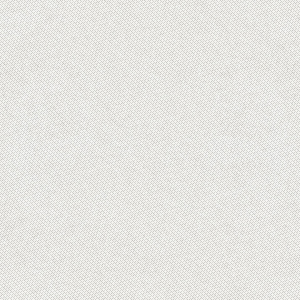
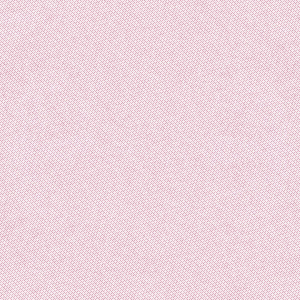
[Evo] bootstrap wedding site

Changed region(s): [[0.0, 0.0, 1.0, 1.0]]

diff --git a/app/views/wedding.scala.html b/app/views/wedding.scala.html
@@ -1,0 +1,39 @@
+@()
+
+@main(Messages("story")) {
+
+<div class="page-block center-page">
+  <div class="page-header">
+  </div>
+  <h3>@Messages("wedding.event")</h3>
+  <div class="row">
+    <div class="span3">
+      <img src="@routes.Assets.at("images/church.jpg")" />
+    </div>
+    <div class="span8">
+      Lorem ipsum dolor sit amet, consectetur adipiscing elit. Morbi hendrerit, elit at interdum accumsan, lectus nibh aliquam sem, sed adipiscing nisl eros non augue. Phasellus consequat mi eu nisl fringilla convallis. In vel diam non libero tincidunt hendrerit. Duis id augue urna. Proin quis faucibus nisi. Pellentesque volutpat lacinia elementum. Donec tempus auctor varius. Proin sapien urna, mollis vel viverra a, imperdiet eu odio. Donec suscipit condimentum pulvinar. Suspendisse sed pellentesque metus. Sed augue sem, tincidunt a laoreet vel, ultrices id urna. Sed ultrices, nibh nec varius fermentum, tellus tellus pharetra nisi, a sollicitudin justo metus non sem.
+    </div>
+  </div>
+  <br />
+  <div class="row">
+    <div class="span8">
+      Nullam luctus odio at neque congue non dapibus lorem vestibulum. Duis eget lorem eu mauris commodo aliquet ac consequat mauris. Nulla commodo pharetra cursus. Integer sem nisl, ultricies vitae congue vel, eleifend ac orci. Duis id erat felis, vitae mattis urna. Class aptent taciti sociosqu ad litora torquent per conubia nostra, per inceptos himenaeos. Fusce molestie lacus et leo porta fermentum. Class aptent taciti sociosqu ad litora torquent per conubia nostra, per inceptos himenaeos.
+    </div>
+    <div class="span3">
+      <img src="@routes.Assets.at("images/champagne.jpg")" />
+    </div>
+  </div>
+  <br />
+  <div class="row">
+    <div class="span3">
+      <img src="@routes.Assets.at("images/cake1.jpg")" />
+    </div>
+    <div class="span8">
+      Vestibulum ante ipsum primis in faucibus orci luctus et ultrices posuere cubilia Curae; Morbi ut felis sapien. Integer nec pretium augue. Sed non lorem nunc. Morbi volutpat tincidunt nisi a fermentum. Suspendisse potenti. Nulla in tellus et elit tempus suscipit. Phasellus enim massa, sodales at cursus et, accumsan vitae nunc. Nam rutrum lacus risus. Donec cursus, est eu congue scelerisque, nisl odio ultricies tellus, accumsan fermentum purus massa vitae mi. Nunc id ullamcorper ipsum. Praesent eu sodales dui.
+      <br />
+      Proin commodo tempor lacinia. Nam varius eros sit amet quam posuere faucibus. Praesent et massa non lorem facilisis viverra. Fusce erat lectus, imperdiet quis pretium nec, eleifend quis tortor. Morbi nunc arcu, pulvinar et sollicitudin vel, dictum nec quam. Vivamus in sem in quam mattis rhoncus. Duis posuere, quam id ultrices luctus, massa erat tincidunt purus, vitae congue neque eros in nunc. Maecenas vel dolor sapien. Vivamus tempus interdum enim sed volutpat. Fusce mattis, neque ut dapibus fringilla, purus tellus volutpat diam, ac semper enim massa ac dolor. Duis tempus bibendum luctus. Duis dapibus leo ut urna consequat consequat. Maecenas sed ligula et nunc pulvinar porttitor vitae in enim. Donec vulputate varius urna, sed interdum purus sodales a.
+    </div>
+  </div>
+</div>
+
+}

diff --git a/app/views/story.scala.html b/app/views/story.scala.html
@@ -1,0 +1,37 @@
+@()
+
+@main(Messages("story")) {
+
+<div class="page-block center-page">
+  <div class="page-header">
+  </div>
+  <h3>@Messages("story")</h3>
+  <div class="row">
+    <div class="span3">
+      <img src="@routes.Assets.at("images/coeur.jpg")" />
+    </div>
+    <div class="span8">
+      Lorem ipsum dolor sit amet, consectetur adipiscing elit. Morbi hendrerit, elit at interdum accumsan, lectus nibh aliquam sem, sed adipiscing nisl eros non augue. Phasellus consequat mi eu nisl fringilla convallis. In vel diam non libero tincidunt hendrerit. Duis id augue urna. Proin quis faucibus nisi. Pellentesque volutpat lacinia elementum. Donec tempus auctor varius. Proin sapien urna, mollis vel viverra a, imperdiet eu odio. Donec suscipit condimentum pulvinar. Suspendisse sed pellentesque metus. Sed augue sem, tincidunt a laoreet vel, ultrices id urna. Sed ultrices, nibh nec varius fermentum, tellus tellus pharetra nisi, a sollicitudin justo metus non sem.
+    </div>
+  </div>
+  <br />
+  <div class="row">
+    <div class="span8">
+      Nullam luctus odio at neque congue non dapibus lorem vestibulum. Duis eget lorem eu mauris commodo aliquet ac consequat mauris. Nulla commodo pharetra cursus. Integer sem nisl, ultricies vitae congue vel, eleifend ac orci. Duis id erat felis, vitae mattis urna. Class aptent taciti sociosqu ad litora torquent per conubia nostra, per inceptos himenaeos. Fusce molestie lacus et leo porta fermentum. Class aptent taciti sociosqu ad litora torquent per conubia nostra, per inceptos himenaeos.
+    </div>
+    <div class="span3">
+      <img src="@routes.Assets.at("images/ring.jpg")" />
+    </div>
+  </div>
+  <br />
+  <div class="row">
+    <div class="span3">
+      <img src="@routes.Assets.at("images/forced.jpg")" />
+    </div>
+    <div class="span8">
+      Vestibulum ante ipsum primis in faucibus orci luctus et ultrices posuere cubilia Curae; Morbi ut felis sapien. Integer nec pretium augue. Sed non lorem nunc. Morbi volutpat tincidunt nisi a fermentum. Suspendisse potenti. Nulla in tellus et elit tempus suscipit. Phasellus enim massa, sodales at cursus et, accumsan vitae nunc. Nam rutrum lacus risus. Donec cursus, est eu congue scelerisque, nisl odio ultricies tellus, accumsan fermentum purus massa vitae mi. Nunc id ullamcorper ipsum. Praesent eu sodales dui.
+    </div>
+  </div>
+</div>
+
+}

diff --git a/app/views/main.scala.html b/app/views/main.scala.html
@@ -13,12 +13,17 @@
         <script src="@routes.Assets.at("javascripts/bootstrap.min.js")" type="text/javascript"></script>
     </head>
     <body>
-      <div class="navbar navbar-inverse navbar-fixed-top">
+      <div class="navbar navbar-fixed-top">
         <div class="navbar-inner">
           <div class="container">
             <a class="brand" href="/">@Messages("app.title")</a>
             <ul class="nav">
+              <li><a href="@routes.Application.story">@Messages("story")</a></li>
               <li><a href="@routes.Galleries.index">@Messages("galleries")</a></li>
+              <li><a href="@routes.Application.wedding">@Messages("wedding.event")</a></li>
+              <li><a href="@routes.Application.location">@Messages("location")</a></li>
+              <li><a href="@routes.Application.guestbook">@Messages("guestbook")</a></li>
+              <li><a href="@routes.Application.contact">@Messages("contact")</a></li>
             </ul>
             <ul class="nav pull-right">
               <li><a href="#">@Messages("signin")</a></li>

diff --git a/public/stylesheets/main.css b/public/stylesheets/main.css
@@ -1,5 +1,5 @@
 body {
-  background-image: url("../images/bg.jpg");
+  background-image: url("../images/background.jpg");
 }
 
 .span1:nth-child(13), .span2:nth-child(7), .span3:nth-child(5), .span4:nth-child(4) {
@@ -42,5 +42,15 @@ body {
   -webkit-border-radius: 6px;
   -moz-border-radius: 6px;
   border-radius: 6px;
+}
+
+.navbar-inner {
+  /* background: url("../images/coupletest1.jpg") no-repeat right top; */
+  background-color: pink;
+}
+
+.page-header {
+  background: url("../images/title1.png") no-repeat center top;
+  height: 80px;
 }
 
